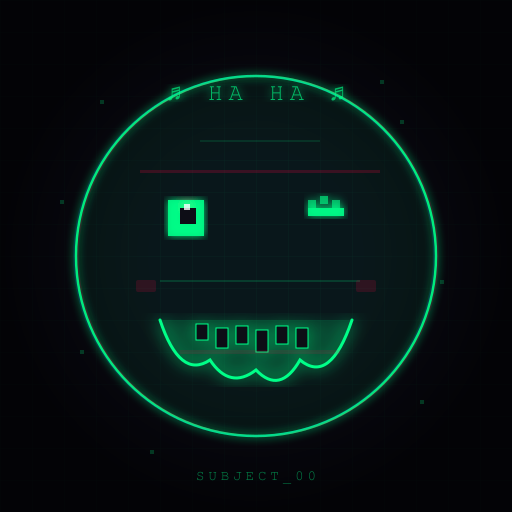
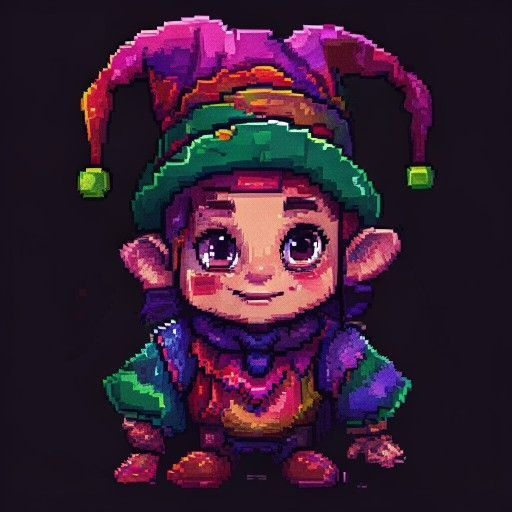
feat: 表情系统 + 闲聊对话
- 3角色×6表情=18张 img2img 表情变体 (Pollinations.AI)
- showDialogue 新增 expression 参数，自动切换头像
- 新增 showCasualChat 辅助方法
- 4场景闲聊热点：公寓收音机、街道拉面摊、酒吧点唱机、小巷流浪猫、塔楼玻璃碎片
- 现有酒保/Oracle对话加表情

diff --git a/index.html b/index.html
@@ -1383,6 +1383,7 @@ const Game = {
       'bg_tower_exterior', 'bg_server_room', 'bg_rooftop', 'bg_office'
     ];
     const portraits = ['portrait_kai', 'portrait_oracle', 'portrait_joker'];
+    const EXPRESSIONS = ['happy', 'angry', 'sad', 'surprised', 'thinking', 'smirk'];
     const NUM_FRAMES = 24; // Depth Lighting 生成 24 帧/场景
 
     const loadImg = (src) => {
@@ -1422,6 +1423,14 @@ const Game = {
 
     for (const name of portraits) {
       promises.push(loadImg(`assets/${name}.png`).then(img => { this.images[name] = img; }));
+    }
+
+    // 预加载表情变体
+    for (const char of ['kai', 'oracle', 'joker']) {
+      for (const expr of EXPRESSIONS) {
+        const key = `portrait_${char}_${expr}`;
+        promises.push(loadImg(`assets/expressions/${key}.png`).then(img => { this.images[key] = img; }));
+      }
     }
 
     await Promise.all(promises);
@@ -1744,7 +1753,7 @@ const Game = {
   },
 
   // ---- 对话系统 ----
-  showDialogue(speaker, text, choices, portrait) {
+  showDialogue(speaker, text, choices, portrait, expression) {
     return new Promise((resolve) => {
       this.dialogueActive = true;
       const box = document.getElementById('dialogue-box');
@@ -1756,23 +1765,33 @@ const Game = {
 
       // 头像映射：根据角色名自动匹配，也可手动传入 portrait 参数覆盖
       const PORTRAIT_MAP = {
-        '凯': 'portrait_kai',
-        'Oracle': 'portrait_oracle',
-        '???': 'portrait_oracle',
-        '谐子': 'portrait_joker',
+        '凯': 'kai',
+        'Oracle': 'oracle',
+        '???': 'oracle',
+        '谐子': 'joker',
       };
-      const resolvedPortrait = portrait || PORTRAIT_MAP[speaker];
+      const charId = portrait || PORTRAIT_MAP[speaker];
+      // 如果指定了表情，使用表情变体图；否则用默认头像
+      const resolvedPortrait = expression && charId
+        ? `portrait_${charId}_${expression}`
+        : (charId ? `portrait_${charId}` : null);
 
-      // 谐子 → canvas 动画笑脸；其他角色 → 静态图片
-      if (resolvedPortrait === 'portrait_joker') {
+      // 有表情 → 静态表情图；谐子无表情 → canvas 动画；其他 → 静态默认图
+      if (resolvedPortrait && this.images[resolvedPortrait]) {
+        portraitCanvas.classList.remove('visible');
+        JokerFace.stop();
+        portraitEl.src = this.images[resolvedPortrait].src;
+        portraitEl.classList.add('visible');
+        portraitEl.classList.remove('joker-glitch');
+      } else if (charId === 'joker' && !expression) {
         portraitEl.classList.remove('visible');
         portraitEl.classList.remove('joker-glitch');
         portraitCanvas.classList.add('visible');
         JokerFace.start();
-      } else if (resolvedPortrait && this.images[resolvedPortrait]) {
+      } else if (resolvedPortrait && this.images[`portrait_${charId}`]) {
         portraitCanvas.classList.remove('visible');
         JokerFace.stop();
-        portraitEl.src = this.images[resolvedPortrait].src;
+        portraitEl.src = this.images[`portrait_${charId}`].src;
         portraitEl.classList.add('visible');
         portraitEl.classList.remove('joker-glitch');
       } else {
@@ -1847,6 +1866,15 @@ const Game = {
   hideDialogue() {
     this.dialogueActive = false;
     document.getElementById('dialogue-box').style.display = 'none';
+  },
+
+  // ---- 闲聊对话系统 ----
+  // lines: [{ speaker, text, expression? }, ...]
+  // expression: 'happy' | 'angry' | 'sad' | 'surprised' | 'thinking' | 'smirk'
+  async showCasualChat(lines) {
+    for (const line of lines) {
+      await this.showDialogue(line.speaker, line.text, null, null, line.expression);
+    }
   },
 
   // ---- 物品系统 ----
@@ -2063,6 +2091,29 @@ const SCENES = {
           });
         }
       },
+      {
+        x: 50, y: 150, w: 150, h: 100,
+        label: '▸ 收音机',
+        maskId: null,
+        action() {
+          if (!Game.flags.radio_chat) {
+            Game.flags.radio_chat = true;
+            Game.showCasualChat([
+              { speaker: null, text: '你拧开角落里的老收音机。滋啦声中传出一段爵士乐。' },
+              { speaker: '凯', text: '……好久没听了。小林以前总放这首。', expression: 'sad' },
+              { speaker: null, text: '音乐在空荡的公寓里回响。窗外的雨声和它混在一起。' },
+              { speaker: '凯', text: '嘿，别这样。活人还得继续活着。', expression: 'thinking' },
+              { speaker: '凯', text: '……至少这曲子还不错。', expression: 'smirk' },
+            ]);
+          } else {
+            Game.showCasualChat([
+              { speaker: null, text: '收音机还在放那首爵士乐。' },
+              { speaker: '凯', text: '循环播放了三年了。这电台是没人管了吗？', expression: 'thinking' },
+              { speaker: '凯', text: '……不过也好。至少有人还记得这些歌。', expression: 'happy' },
+            ]);
+          }
+        }
+      },
     ]
   },
 
@@ -2143,6 +2194,31 @@ const SCENES = {
           }
         }
       },
+      {
+        x: 800, y: 450, w: 120, h: 100,
+        label: '▸ 拉面摊',
+        maskId: null,
+        action() {
+          if (!Game.flags.ramen_chat) {
+            Game.flags.ramen_chat = true;
+            Game.showCasualChat([
+              { speaker: null, text: '街角的拉面摊还在营业。老板是个独眼的老头，从大崩溃前就在这了。' },
+              { speaker: '拉面老板', text: '哟，凯。老样子？', expression: 'happy' },
+              { speaker: '凯', text: '……不了，今天有事。', expression: 'thinking' },
+              { speaker: '拉面老板', text: '又在查案子？你这人啊，退休了也不消停。', expression: 'smirk' },
+              { speaker: '凯', text: '这次不一样。', expression: 'sad' },
+              { speaker: '拉面老板', text: '每次都不一样。来，送你碗汤。暖暖身子。', expression: 'happy' },
+              { speaker: '凯', text: '……谢了，老周。', expression: 'happy' },
+            ]);
+          } else {
+            Game.showCasualChat([
+              { speaker: '拉面老板', text: '回来啦？这次来一碗？', expression: 'happy' },
+              { speaker: '凯', text: '等事情办完一定来。', expression: 'smirk' },
+              { speaker: '拉面老板', text: '你上次也是这么说的。', expression: 'surprised' },
+            ]);
+          }
+        }
+      },
     ]
   },
 
@@ -2154,7 +2230,7 @@ const SCENES = {
       if (!Game.flags.bar_visited) {
         Game.flags.bar_visited = true;
         Game.showDialogue(null, 'The Rust 是霓虹街上最老的酒吧。烟雾缭绕，紫色的霓虹灯映在酒瓶上。\n\n酒保认出了你。').then(() => {
-          return Game.showDialogue('酒保', '凯？好久不见。我以为你退休了。');
+          return Game.showDialogue('酒保', '凯？好久不见。我以为你退休了。', null, null, 'surprised');
         });
       }
     },
@@ -2172,12 +2248,12 @@ const SCENES = {
               { text: '你认识 Oracle 吗？' },
             ]).then(choice => {
               if (choice === 0) {
-                return Game.showDialogue('酒保', '加密芯片？让我看看……\n\n嗯，这是 ECHO 公司的旧型号加密。要解密，你得去后面小巷找"影子"。他是个数据贩子。').then(() => {
-                  return Game.showDialogue('酒保', '但影子不白干活。你可能得拿什么东西跟他换。');
+                return Game.showDialogue('酒保', '加密芯片？让我看看……\n\n嗯，这是 ECHO 公司的旧型号加密。要解密，你得去后面小巷找"影子"。他是个数据贩子。', null, null, 'thinking').then(() => {
+                  return Game.showDialogue('酒保', '但影子不白干活。你可能得拿什么东西跟他换。', null, null, 'smirk');
                 });
               } else {
-                return Game.showDialogue('酒保', 'Oracle？那个幽灵黑客？没人见过她的真面目。\n\n但如果你有加密芯片，也许可以去后面小巷找"影子"看看。他什么都能解。').then(() => {
-                  return Game.showDialogue('酒保', '不过要小心。影子是 ECHO 的线人。');
+                return Game.showDialogue('酒保', 'Oracle？那个幽灵黑客？没人见过她的真面目。\n\n但如果你有加密芯片，也许可以去后面小巷找"影子"看看。他什么都能解。', null, null, 'thinking').then(() => {
+                  return Game.showDialogue('酒保', '不过要小心。影子是 ECHO 的线人。', null, null, 'sad');
                 });
               }
             });
@@ -2211,9 +2287,9 @@ const SCENES = {
               ]).then(choice => {
                 if (choice === 1) {
                   Game.flags.knows_oracle = true;
-                  return Game.showDialogue('Oracle', '聪明。但在这里别叫那个名字。\n\n我给你发了信号。搭档的死不是意外——ECHO 公司在掩盖什么。').then(() => {
-                    return Game.showDialogue('Oracle', '我需要你进入他们的服务器。拿到原始数据。\n\n我能帮你解密芯片，但你需要一把安全卡。小巷里的影子有。').then(() => {
-                      return Game.showDialogue('Oracle', '用芯片跟他换。他不知道里面是什么——只有我能解密。');
+                  return Game.showDialogue('Oracle', '聪明。但在这里别叫那个名字。\n\n我给你发了信号。搭档的死不是意外——ECHO 公司在掩盖什么。', null, null, 'smirk').then(() => {
+                    return Game.showDialogue('Oracle', '我需要你进入他们的服务器。拿到原始数据。\n\n我能帮你解密芯片，但你需要一把安全卡。小巷里的影子有。', null, null, 'thinking').then(() => {
+                      return Game.showDialogue('Oracle', '用芯片跟他换。他不知道里面是什么——只有我能解密。', null, null, 'happy');
                     });
                   });
                 } else {
@@ -2222,7 +2298,7 @@ const SCENES = {
               });
             });
           } else {
-            Game.showDialogue('Oracle', '去小巷找影子。用芯片换安全卡。');
+            Game.showDialogue('Oracle', '去小巷找影子。用芯片换安全卡。', null, null, 'thinking');
           }
         },
         condition: () => Game.flags.bar_visited
@@ -2234,6 +2310,33 @@ const SCENES = {
         action() {
           Game.sfx('door');
           Game.goScene('street');
+        }
+      },
+      {
+        x: 50, y: 500, w: 150, h: 100,
+        label: '▸ 点唱机',
+        maskId: null,
+        action() {
+          if (!Game.flags.jukebox_chat) {
+            Game.flags.jukebox_chat = true;
+            Game.showCasualChat([
+              { speaker: null, text: '角落里的老点唱机还亮着灯。你投了个硬币。' },
+              { speaker: null, text: '嗡……滋啦……' },
+              { speaker: '凯', text: '这破机器还活着呢？', expression: 'surprised' },
+              { speaker: '酒保', text: '别小看它。大崩溃的时候全城断电，就它靠电池撑了三天。', expression: 'smirk' },
+              { speaker: '凯', text: '三天？谁给它换的电池？', expression: 'thinking' },
+              { speaker: '酒保', text: '没人。它自己换的。……开玩笑的。是老周。', expression: 'happy' },
+              { speaker: '凯', text: '……那个拉面摊的老周？', expression: 'surprised' },
+              { speaker: '酒保', text: '他以前是这的驻唱。嗓子坏了以后才去卖拉面的。', expression: 'sad' },
+              { speaker: '凯', text: '……每个人都有故事啊。', expression: 'thinking' },
+            ]);
+          } else {
+            Game.showCasualChat([
+              { speaker: null, text: '点唱机在放一首老歌。旋律有些走调。' },
+              { speaker: '凯', text: '这歌……好像在哪听过。', expression: 'thinking' },
+              { speaker: '酒保', text: '二十年前的流行曲。那时候还没大崩溃呢。', expression: 'happy' },
+            ]);
+          }
         }
       },
     ]
@@ -2303,6 +2406,31 @@ const SCENES = {
         action() {
           Game.sfx('door');
           Game.goScene('street');
+        }
+      },
+      {
+        x: 400, y: 500, w: 120, h: 80,
+        label: '▸ 流浪猫',
+        maskId: null,
+        action() {
+          if (!Game.flags.cat_chat) {
+            Game.flags.cat_chat = true;
+            Game.showCasualChat([
+              { speaker: null, text: '一只花猫从垃圾桶后面探出头。它的一只眼睛是机械的，闪着蓝光。' },
+              { speaker: '凯', text: '哟，小家伙。你也是半机械的？', expression: 'happy' },
+              { speaker: null, text: '猫歪了歪头，机械眼发出轻微的嗡嗡声。' },
+              { speaker: '凯', text: '……等等。这眼睛的型号，和 ECHO 的监控器一样。', expression: 'surprised' },
+              { speaker: null, text: '猫"喵"了一声，转身消失在黑暗中。' },
+              { speaker: '凯', text: 'ECHO 连猫都不放过？……算了，先办正事。', expression: 'angry' },
+            ]);
+          } else {
+            Game.showCasualChat([
+              { speaker: null, text: '那只花猫又出现了，蹲在远处看着你。' },
+              { speaker: '凯', text: '你是来监视我的？还是来要吃的？', expression: 'thinking' },
+              { speaker: null, text: '猫打了个哈欠，跳上墙头走了。' },
+              { speaker: '凯', text: '……至少比影子友善。', expression: 'smirk' },
+            ]);
+          }
         }
       },
     ]
@@ -2397,6 +2525,28 @@ const SCENES = {
         action() {
           Game.sfx('door');
           Game.goScene('street');
+        }
+      },
+      {
+        x: 50, y: 150, w: 150, h: 100,
+        label: '▸ 玻璃碎片',
+        maskId: null,
+        action() {
+          if (!Game.flags.glass_chat) {
+            Game.flags.glass_chat = true;
+            Game.showCasualChat([
+              { speaker: null, text: '地上散落着黑色玻璃碎片。是塔楼外墙掉下来的。' },
+              { speaker: '凯', text: '这些玻璃……有烧焦的痕迹。', expression: 'thinking' },
+              { speaker: null, text: '你捡起一片。边缘锋利，在霓虹灯下折射出奇异的光。' },
+              { speaker: '凯', text: '三年前的大火把整层楼都烧了。官方说是电路故障。', expression: 'sad' },
+              { speaker: '凯', text: '……但电路故障不会把防弹玻璃烧成这样。', expression: 'angry' },
+            ]);
+          } else {
+            Game.showCasualChat([
+              { speaker: null, text: '玻璃碎片在雨中闪着冷光。' },
+              { speaker: '凯', text: '真相就藏在这些碎片里。和灰烬一起。', expression: 'thinking' },
+            ]);
+          }
         }
       },
     ]

diff --git a/gen_expressions.py b/gen_expressions.py
@@ -1,0 +1,57 @@
+#!/usr/bin/env python3
+"""Generate expression variants for each character using Pollinations.AI img2img."""
+import subprocess, os, urllib.parse, time
+
+BASE_URL = "https://image.pollinations.ai/prompt"
+ASSETS = "/root/.openclaw/workspace/last-signal/assets"
+OUT_DIR = f"{ASSETS}/expressions"
+os.makedirs(OUT_DIR, exist_ok=True)
+
+# 角色 → 基础图
+CHARACTERS = {
+    "kai": f"{ASSETS}/portrait_kai.png",
+    "oracle": f"{ASSETS}/portrait_oracle.png",
+    "joker": f"{ASSETS}/portrait_joker.png",
+}
+
+# 表情 prompt 模板
+EXPRESSIONS = {
+    "happy": "same character, happy joyful expression, big smile, bright eyes, cheerful",
+    "angry": "same character, angry expression, furrowed brows, clenched teeth, intense eyes",
+    "sad": "same character, sad expression, droopy eyes, slight frown, melancholy",
+    "surprised": "same character, surprised expression, wide eyes, open mouth, shocked",
+    "thinking": "same character, thinking expression, one hand on chin, looking up, contemplative",
+    "smirk": "same character, smirking expression, one side of mouth raised, confident, sly grin",
+}
+
+def generate_img2img(char_name, base_path, expr_name, prompt_suffix):
+    out_path = f"{OUT_DIR}/{char_name}_{expr_name}.png"
+    if os.path.exists(out_path) and os.path.getsize(out_path) > 1000:
+        print(f"  [cached] {char_name}/{expr_name}")
+        return True
+
+    full_prompt = f"{prompt_suffix}, same art style, same character design, portrait"
+    encoded = urllib.parse.quote(full_prompt)
+    # Pollinations img2img: POST with image file
+    url = f"{BASE_URL}/{encoded}?width=512&height=512&seed=2087&model=flux&nologo=true"
+
+    print(f"  [gen] {char_name}/{expr_name} ...")
+    r = subprocess.run(
+        ['curl', '-sL', '-o', out_path, '--max-time', '60',
+         '-X', 'POST', '-F', f'image=@{base_path}', url],
+        capture_output=True, text=True
+    )
+    if r.returncode != 0 or not os.path.exists(out_path) or os.path.getsize(out_path) < 1000:
+        print(f"  [FAIL] {char_name}/{expr_name}")
+        return False
+    print(f"  [ok] {char_name}/{expr_name} ({os.path.getsize(out_path)//1024}KB)")
+    return True
+
+# 批量生成
+for char_name, base_path in CHARACTERS.items():
+    print(f"\n=== {char_name} ===")
+    for expr_name, prompt_suffix in EXPRESSIONS.items():
+        generate_img2img(char_name, base_path, expr_name, prompt_suffix)
+        time.sleep(1)
+
+print("\n✅ Done!")
